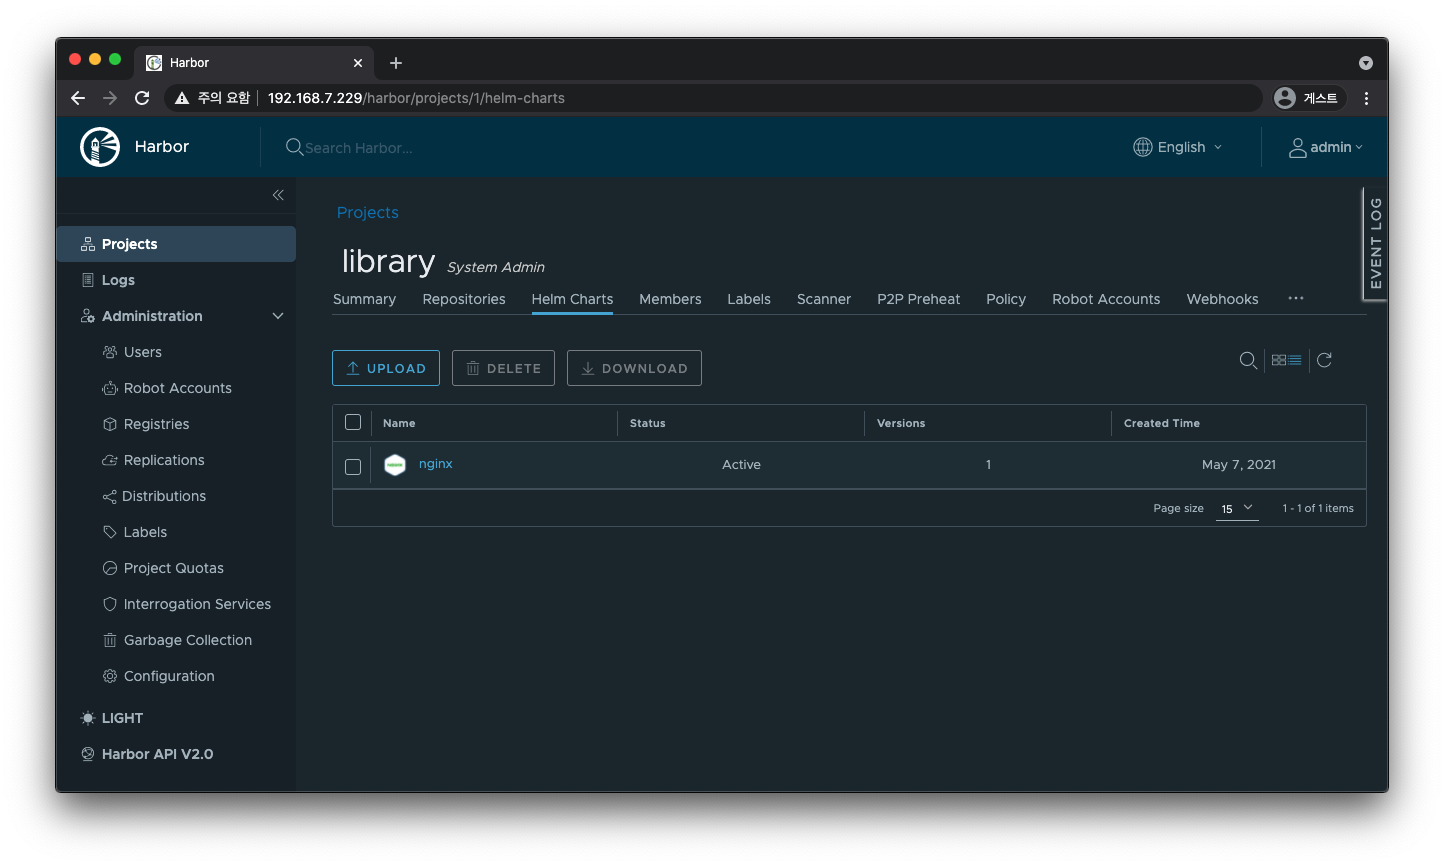
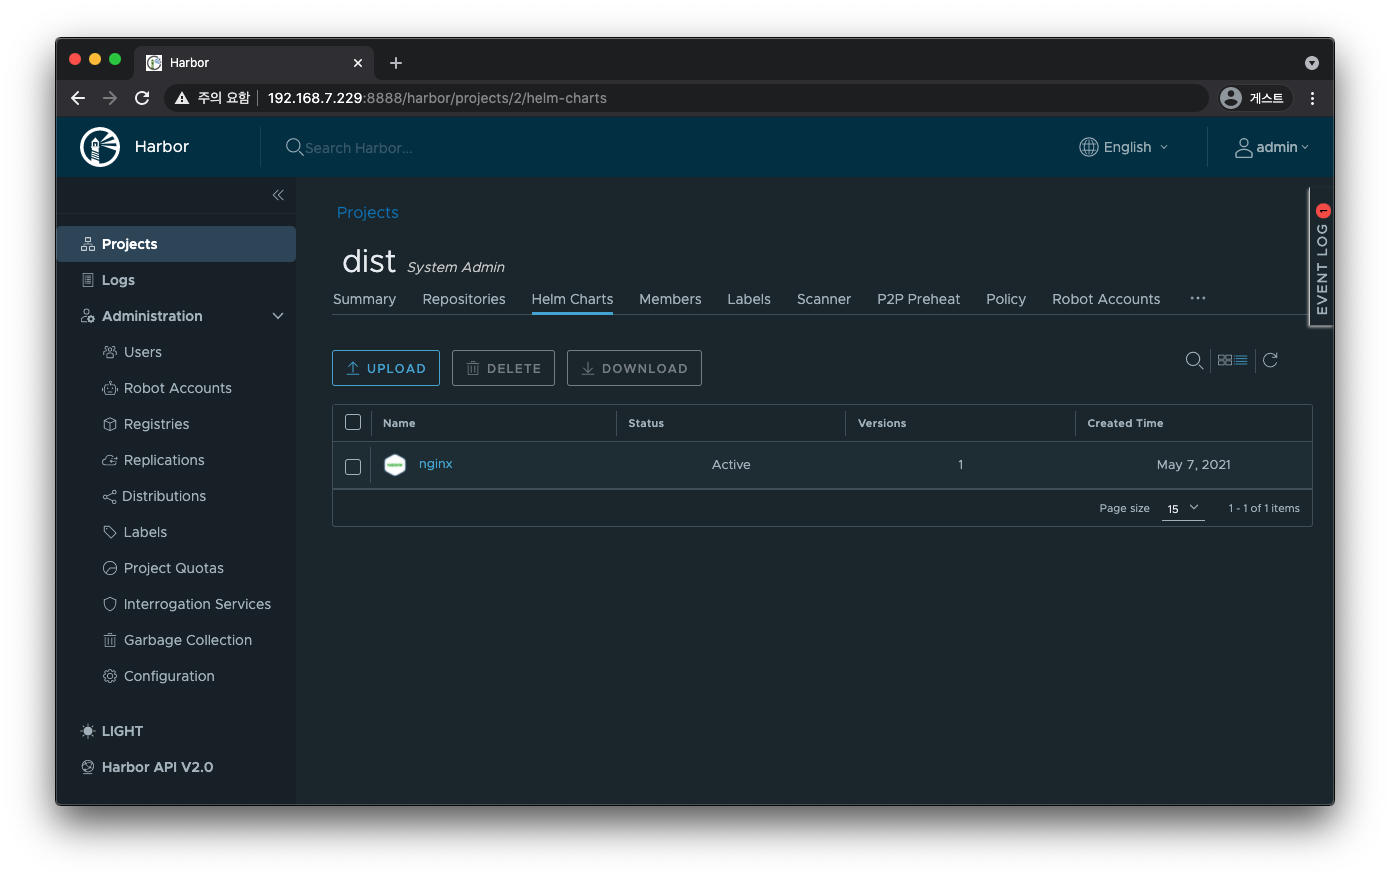
[registry] Harbor - port 수정

diff --git a/registry/harbor.md b/registry/harbor.md
@@ -78,34 +78,33 @@ tar zxvf harbor-online-installer-v2.2.1.tgz
 cd harbor
 ```
 
-```bash
-cp harbor.yml.tmpl harbor.yml
-vi harbor.yml
-```
-
-```bash
-export HARBOR_HOST=192.168.7.229
-```
-
-```yaml
-hostname: 192.168.7.229
-
-http:
-  port: 80
-
-# https:
-#  port: 443
-
-harbor_admin_password: Harbor12345
-
-data_volume: /data/harbor
-```
-
 처음 실행한다면 아래 명령어를 사용한다.
 TLS를 지원한다면 OCI 표준을 지원하는 `helm chart push` 명령어를 사용할 수 있다.
 반대로 TLS를 지원하지 않는다면 Helm 차트를 저장하기 위해 Chartmuseum을 같이 배포해야 한다.
 `./prepare --with-chartmuseum` 명령을 사용하면 Chartmuseum 설정을 포함하는 매니페스트 파일들이 생성된다.
 그러면 Harbor와 같이 배포된다.
+
+설정 템플릿을 복사하고
+테스트를 위해 `HTTPS` 프로토콜 지원은 생략한다.
+
+```bash
+cp harbor.yml.tmpl harbor.yml
+```
+
+```yaml
+# harbor.yml
+hostname: 192.168.7.229
+
+http:
+  port: 8888
+
+# https:
+#  port: 443
+
+harbor_admin_password: Harbor12345 # 대소문자를 구분한다.
+
+data_volume: /data/harbor
+```
 
 ```bash
 sudo ./prepare --with-chartmuseum
@@ -160,6 +159,7 @@ docker ps --size
 ```
 
 ```bash
+export HARBOR_HOST=192.168.7.229:8888
 curl ${HARBOR_HOST}/api/v2.0/health
 ```
 
@@ -181,12 +181,23 @@ curl ${HARBOR_HOST}/api/v2.0/health
 
 ## LDAP 설정
 
-- `http://${HOSTNAME}/harbor/configs`
-- `Administration`
-- `Configuration`
-- `Authentication` - `Auth Mode` - `LDAP`
+`http://${HOSTNAME}/harbor/configs`
+
+> Administration > Configuration > Authentication > Auth Mode > LDAP
 
 ## Project
+
+먼저 Harbor 웹에서 `Project`를 생성해야 해당 프로젝트 이름으로 접근할 수 있다.
+프로젝트를 생성했다면 Docker로 접근해보자.
+
+```json
+// /etc/docker/daemon.json
+{
+  "insecure-registries": [
+    "192.168.7.229:8888"
+  ]
+}
+```
 
 ```bash
 export HARBOR_PROJECT=dist
